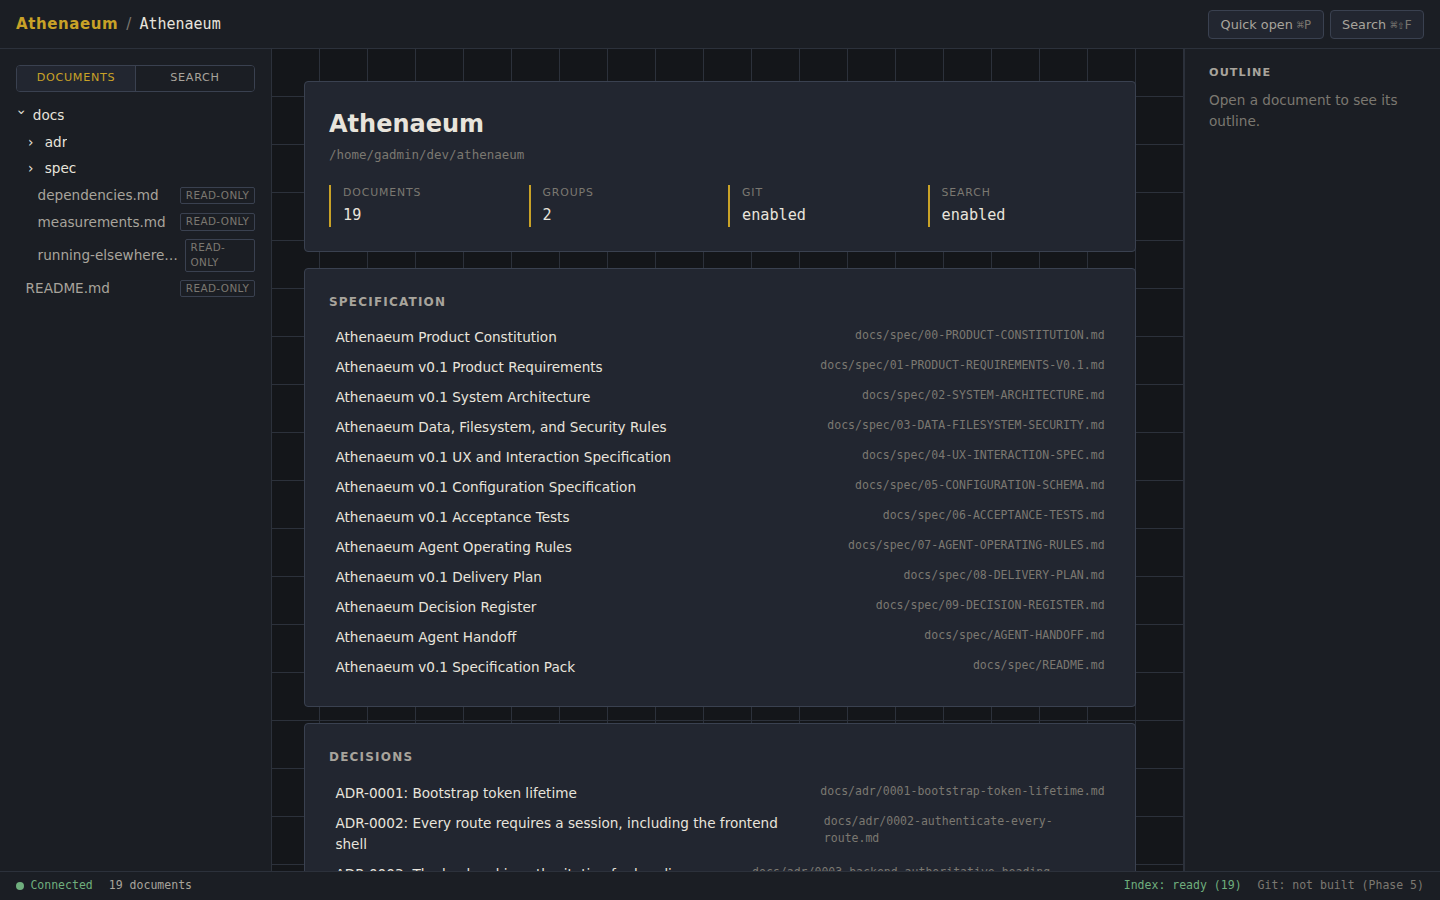
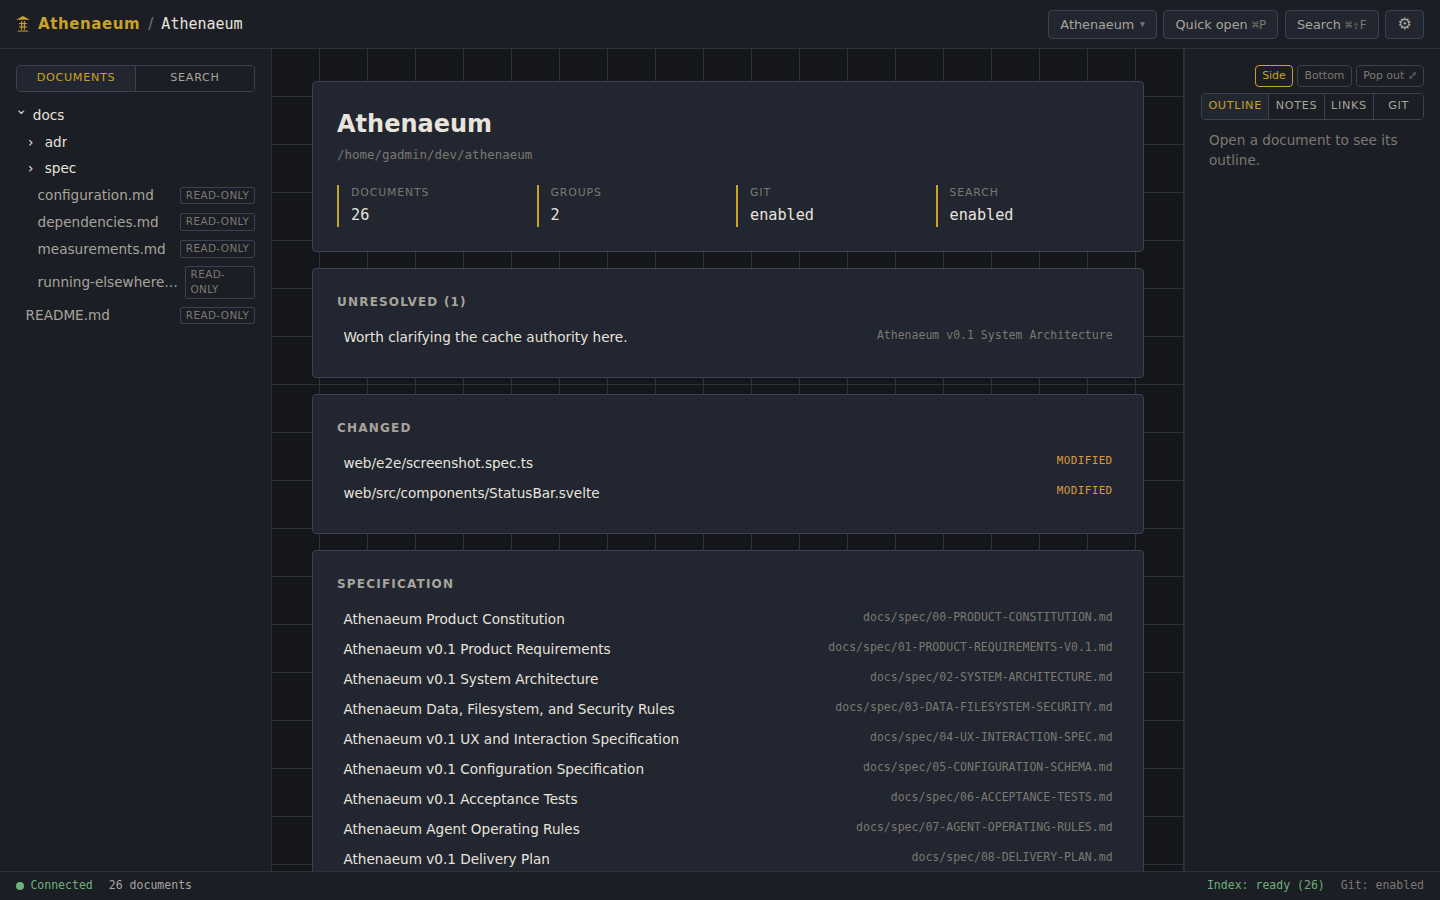
docs(screenshots): refresh the gallery; fix the Git status-bar label
Recapture the README gallery against the current UI (now with the app mark in
the command bar) and add two shots for shipped features: annotations in the
margin and the read-only Git panel (working-tree diff, history, blame). All six
are a consistent 1440x900.

To keep every README image reproducible, extend screenshot.spec.ts with
split-editing, preview-document, and workspace-search captures, take the
annotation shot in full-width preview, and point the Git capture at a document
with a real uncommitted edit.

Also fix a stale placeholder: the status bar hard-coded "Git: not built
(Phase 5)" even though the Git panel works. It now reads the workspace's
declared git capability ("Git: enabled" / "Git: off"), matching the Map Room
home.

Gates: svelte-check (0), vitest (84), vite build.

diff --git a/web/e2e/screenshot.spec.ts b/web/e2e/screenshot.spec.ts
@@ -164,6 +164,12 @@ test.describe("Map Room", () => {
 
   test("a comment anchored in the margin", async ({ page }) => {
     await openDocument(page, "architecture");
+    // Preview mode gives the annotation margin its full width, so the card
+    // sits cleanly beside the text rather than over a narrow split pane.
+    await page
+      .getByRole("group", { name: "View mode" })
+      .getByRole("button", { name: "Preview", exact: true })
+      .click();
     // Select a paragraph in the preview and comment on it.
     await page.locator(".preview p").first().click({ clickCount: 3 });
     const column = page.locator(".annotation-column");
@@ -174,7 +180,14 @@ test.describe("Map Room", () => {
   });
 
   test("the read-only Git panel", async ({ page }) => {
+    // The Git panel reports the working-tree diff of the open document, so this
+    // capture targets a doc with an uncommitted edit (made on disk by the
+    // screenshot runner) shown in full-width preview.
     await openDocument(page, "architecture");
+    await page
+      .getByRole("group", { name: "View mode" })
+      .getByRole("button", { name: "Preview", exact: true })
+      .click();
     await page.getByRole("button", { name: "Git", exact: true }).click();
     await expect(page.getByRole("heading", { name: "Working-tree diff" })).toBeVisible();
     await page.screenshot({ path: "e2e/screenshots/11-git.png", fullPage: false });
@@ -192,5 +205,40 @@ test.describe("Map Room", () => {
     await page.getByRole("button", { name: "Settings" }).click();
     await expect(page.getByText("Interface size")).toBeVisible();
     await page.screenshot({ path: "e2e/screenshots/13-settings.png", fullPage: false });
+  });
+
+  test("split editing: source beside live preview", async ({ page }) => {
+    await openDocument(page, "architecture");
+    const modes = page.getByRole("group", { name: "View mode" });
+    await modes.getByRole("button", { name: "Split", exact: true }).click();
+    // Both panes present: the source editor (a plain textarea) and the preview.
+    await expect(page.locator(".editor-pane textarea")).toBeVisible();
+    await expect(page.locator(".preview")).toBeVisible();
+    await page.waitForTimeout(2500); // lazy Mermaid and highlighting in the preview
+    await page.screenshot({ path: "e2e/screenshots/20-split-editing.png", fullPage: false });
+  });
+
+  test("a rendered document in preview", async ({ page }) => {
+    await openDocument(page, "architecture");
+    await page
+      .getByRole("group", { name: "View mode" })
+      .getByRole("button", { name: "Preview", exact: true })
+      .click();
+    await expect(
+      page.getByRole("heading", { name: /System Architecture/i, level: 1 }),
+    ).toBeVisible();
+    await expect(page.locator(".mermaid-block svg").first()).toBeVisible({ timeout: 15000 });
+    await page.waitForTimeout(1500); // settle highlighting
+    await page.screenshot({ path: "e2e/screenshots/21-document.png", fullPage: false });
+  });
+
+  test("workspace search with results", async ({ page }) => {
+    await page.getByRole("button", { name: "Search", exact: true }).click();
+    const field = page.getByLabel("Search query");
+    await expect(field).toBeVisible();
+    await field.fill("workspace");
+    // Wait for the lexical index to return at least one hit.
+    await expect(page.getByRole("listbox", { name: "Search results" }).getByRole("option").first()).toBeVisible();
+    await page.screenshot({ path: "e2e/screenshots/22-search.png", fullPage: false });
   });
 });

diff --git a/web/src/components/StatusBar.svelte b/web/src/components/StatusBar.svelte
@@ -45,6 +45,11 @@
     if (index.state === "disabled") return "muted";
     return "ok";
   });
+
+  // Git is a read-only capability the workspace either exposes or does not
+  // (spec 04 section 2). It follows the workspace's declared capability rather
+  // than a build-time placeholder.
+  const gitLabel = $derived(workspace?.capabilities.git ? "Git: enabled" : "Git: off");
 </script>
 
 <footer class="status-bar">
@@ -66,7 +71,7 @@
 
   <span class="spacer"></span>
   <span class="field {indexTone}" role="status">{indexLabel}</span>
-  <span class="field muted">Git: not built (Phase 5)</span>
+  <span class="field muted">{gitLabel}</span>
 </footer>
 
 <style>

diff --git a/README.md b/README.md
@@ -62,6 +62,18 @@ a disposable cache: deleting it loses nothing.
 
 ![Workspace search](docs/screenshots/search.png)
 
+Annotations. Comments anchored to a selection or heading, personal or shared,
+shown in the margin — and never written into your Markdown. They repair
+themselves after edits and detach rather than move when a match is lost.
+
+![Annotations in the margin](docs/screenshots/annotations.png)
+
+Read-only Git. Working-tree diff, history, and blame for the open document,
+through an allow-list that can reach no mutating command. Unresolved comments
+and changed files also surface on the Map Room home.
+
+![Read-only Git panel](docs/screenshots/git.png)
+
 ## Requirements
 
 The installed binary needs nothing but itself. These are for building from source:
